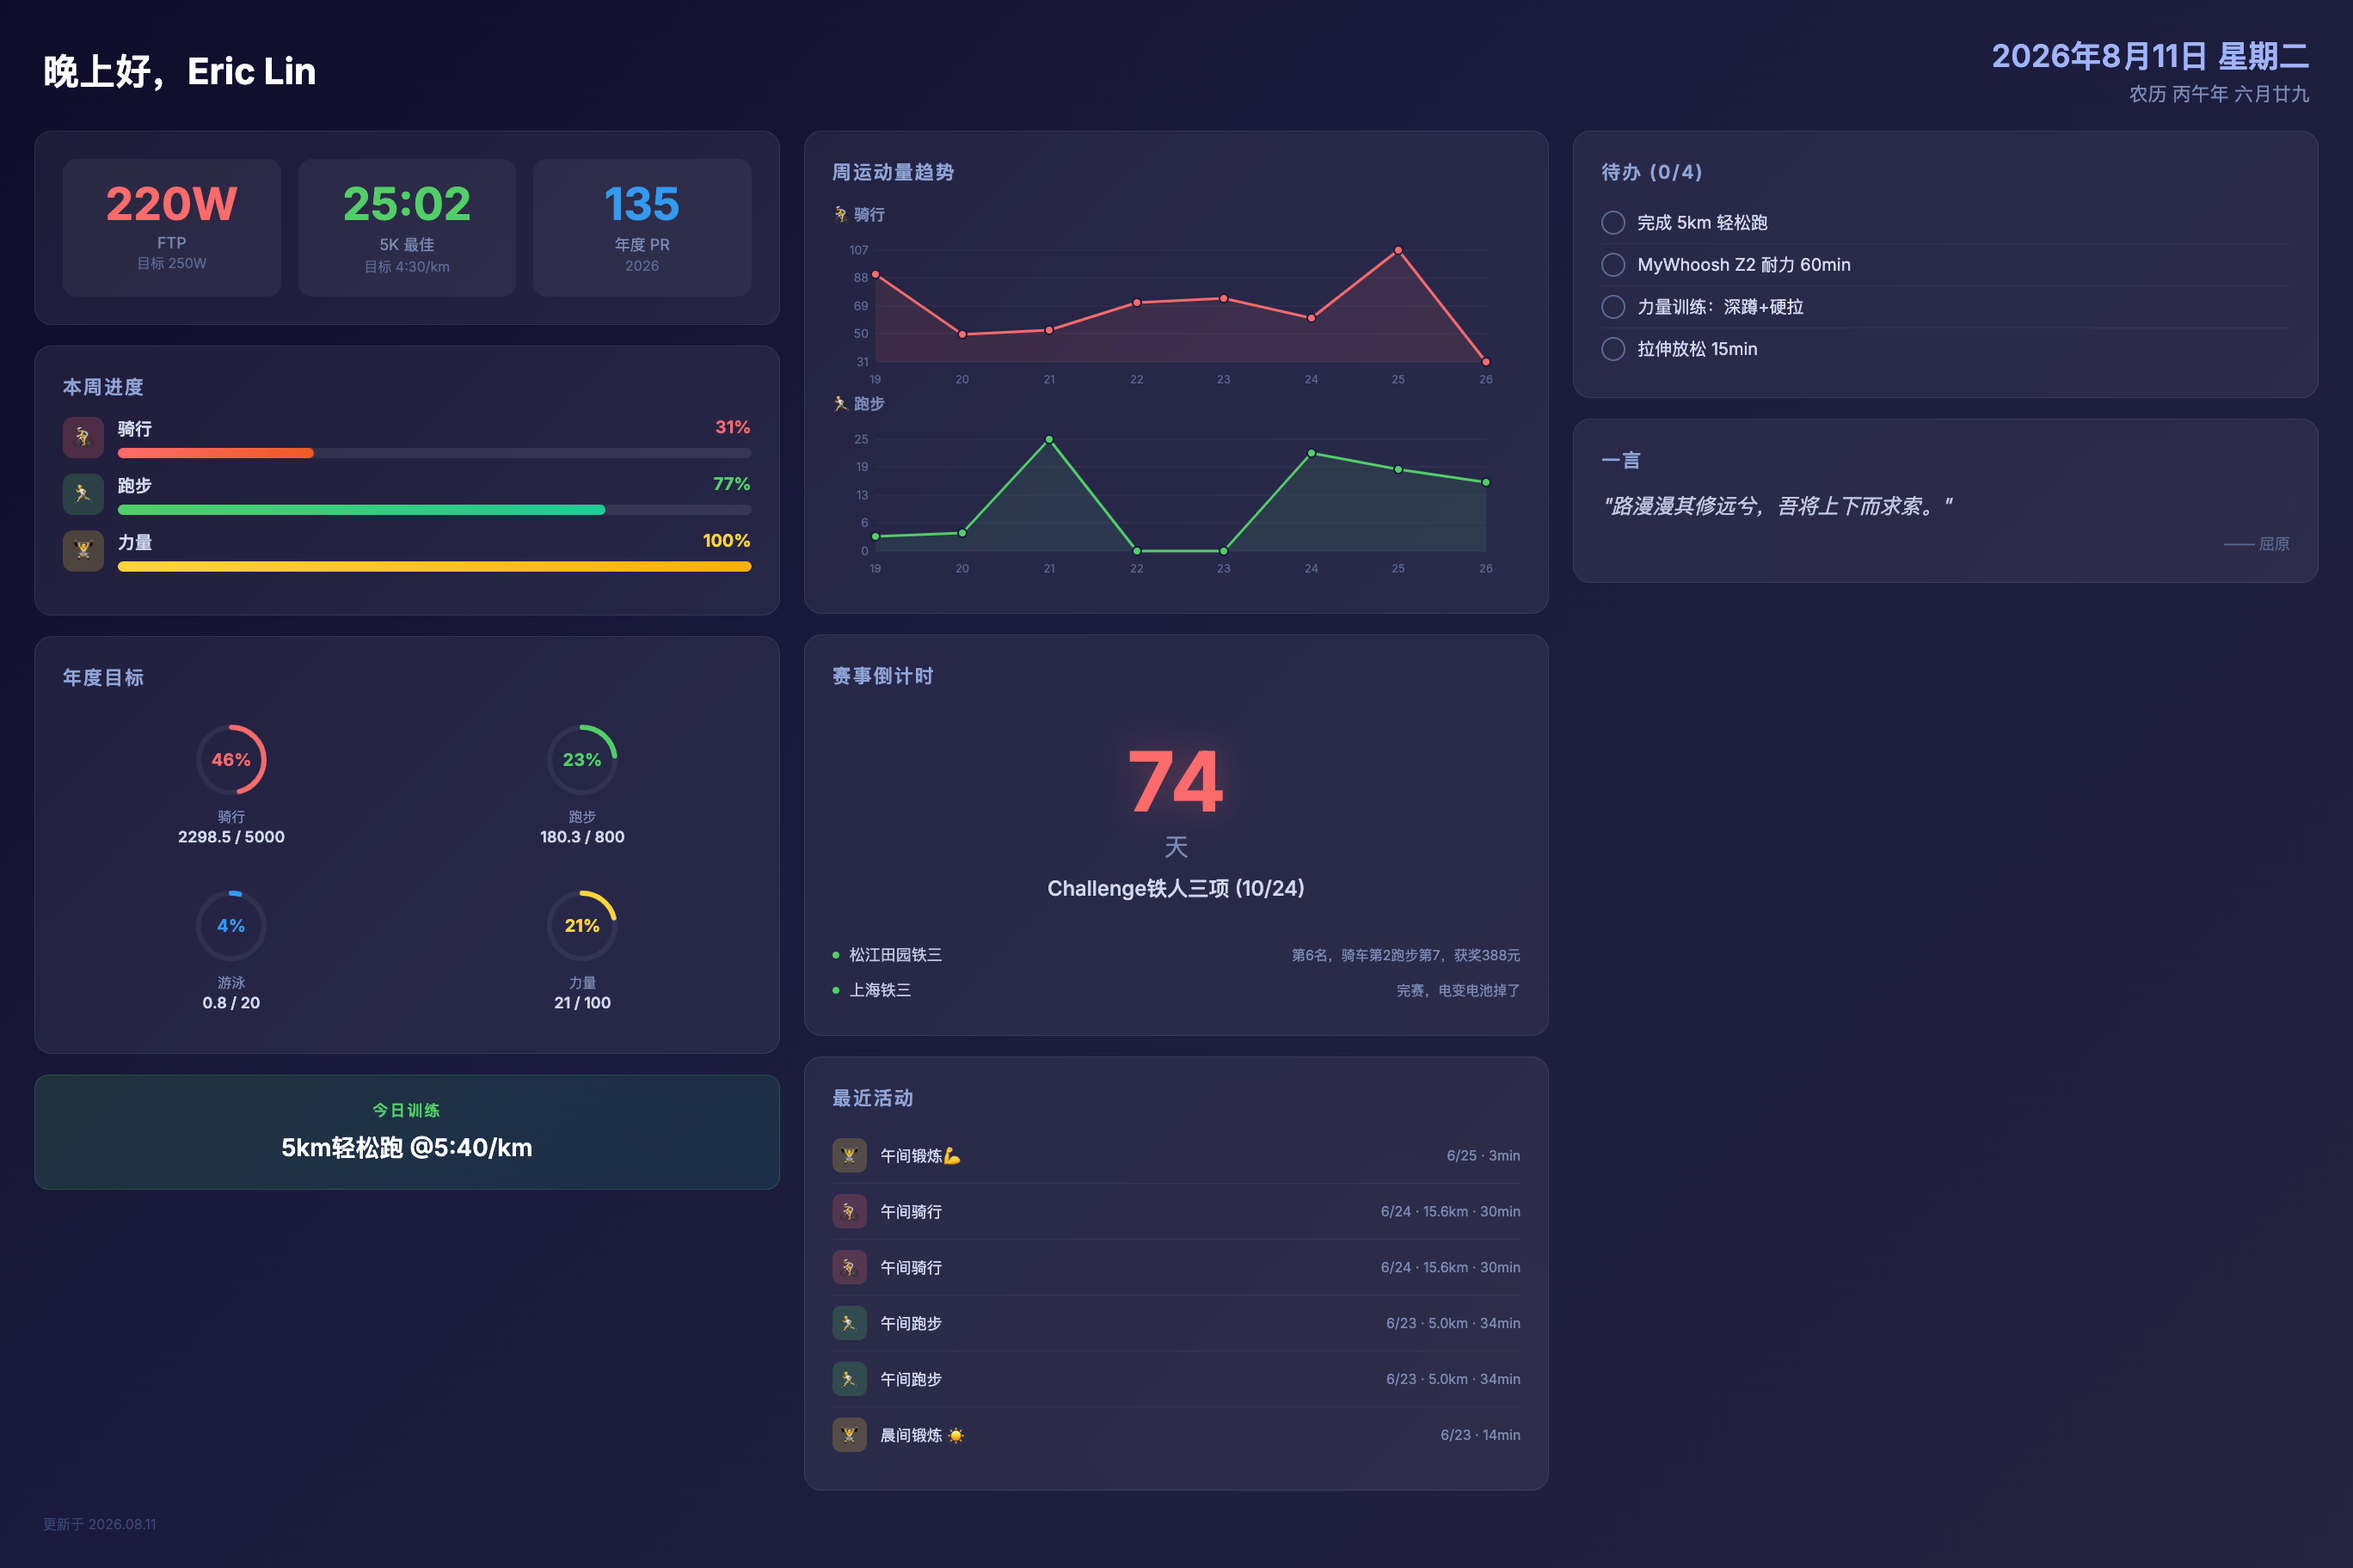
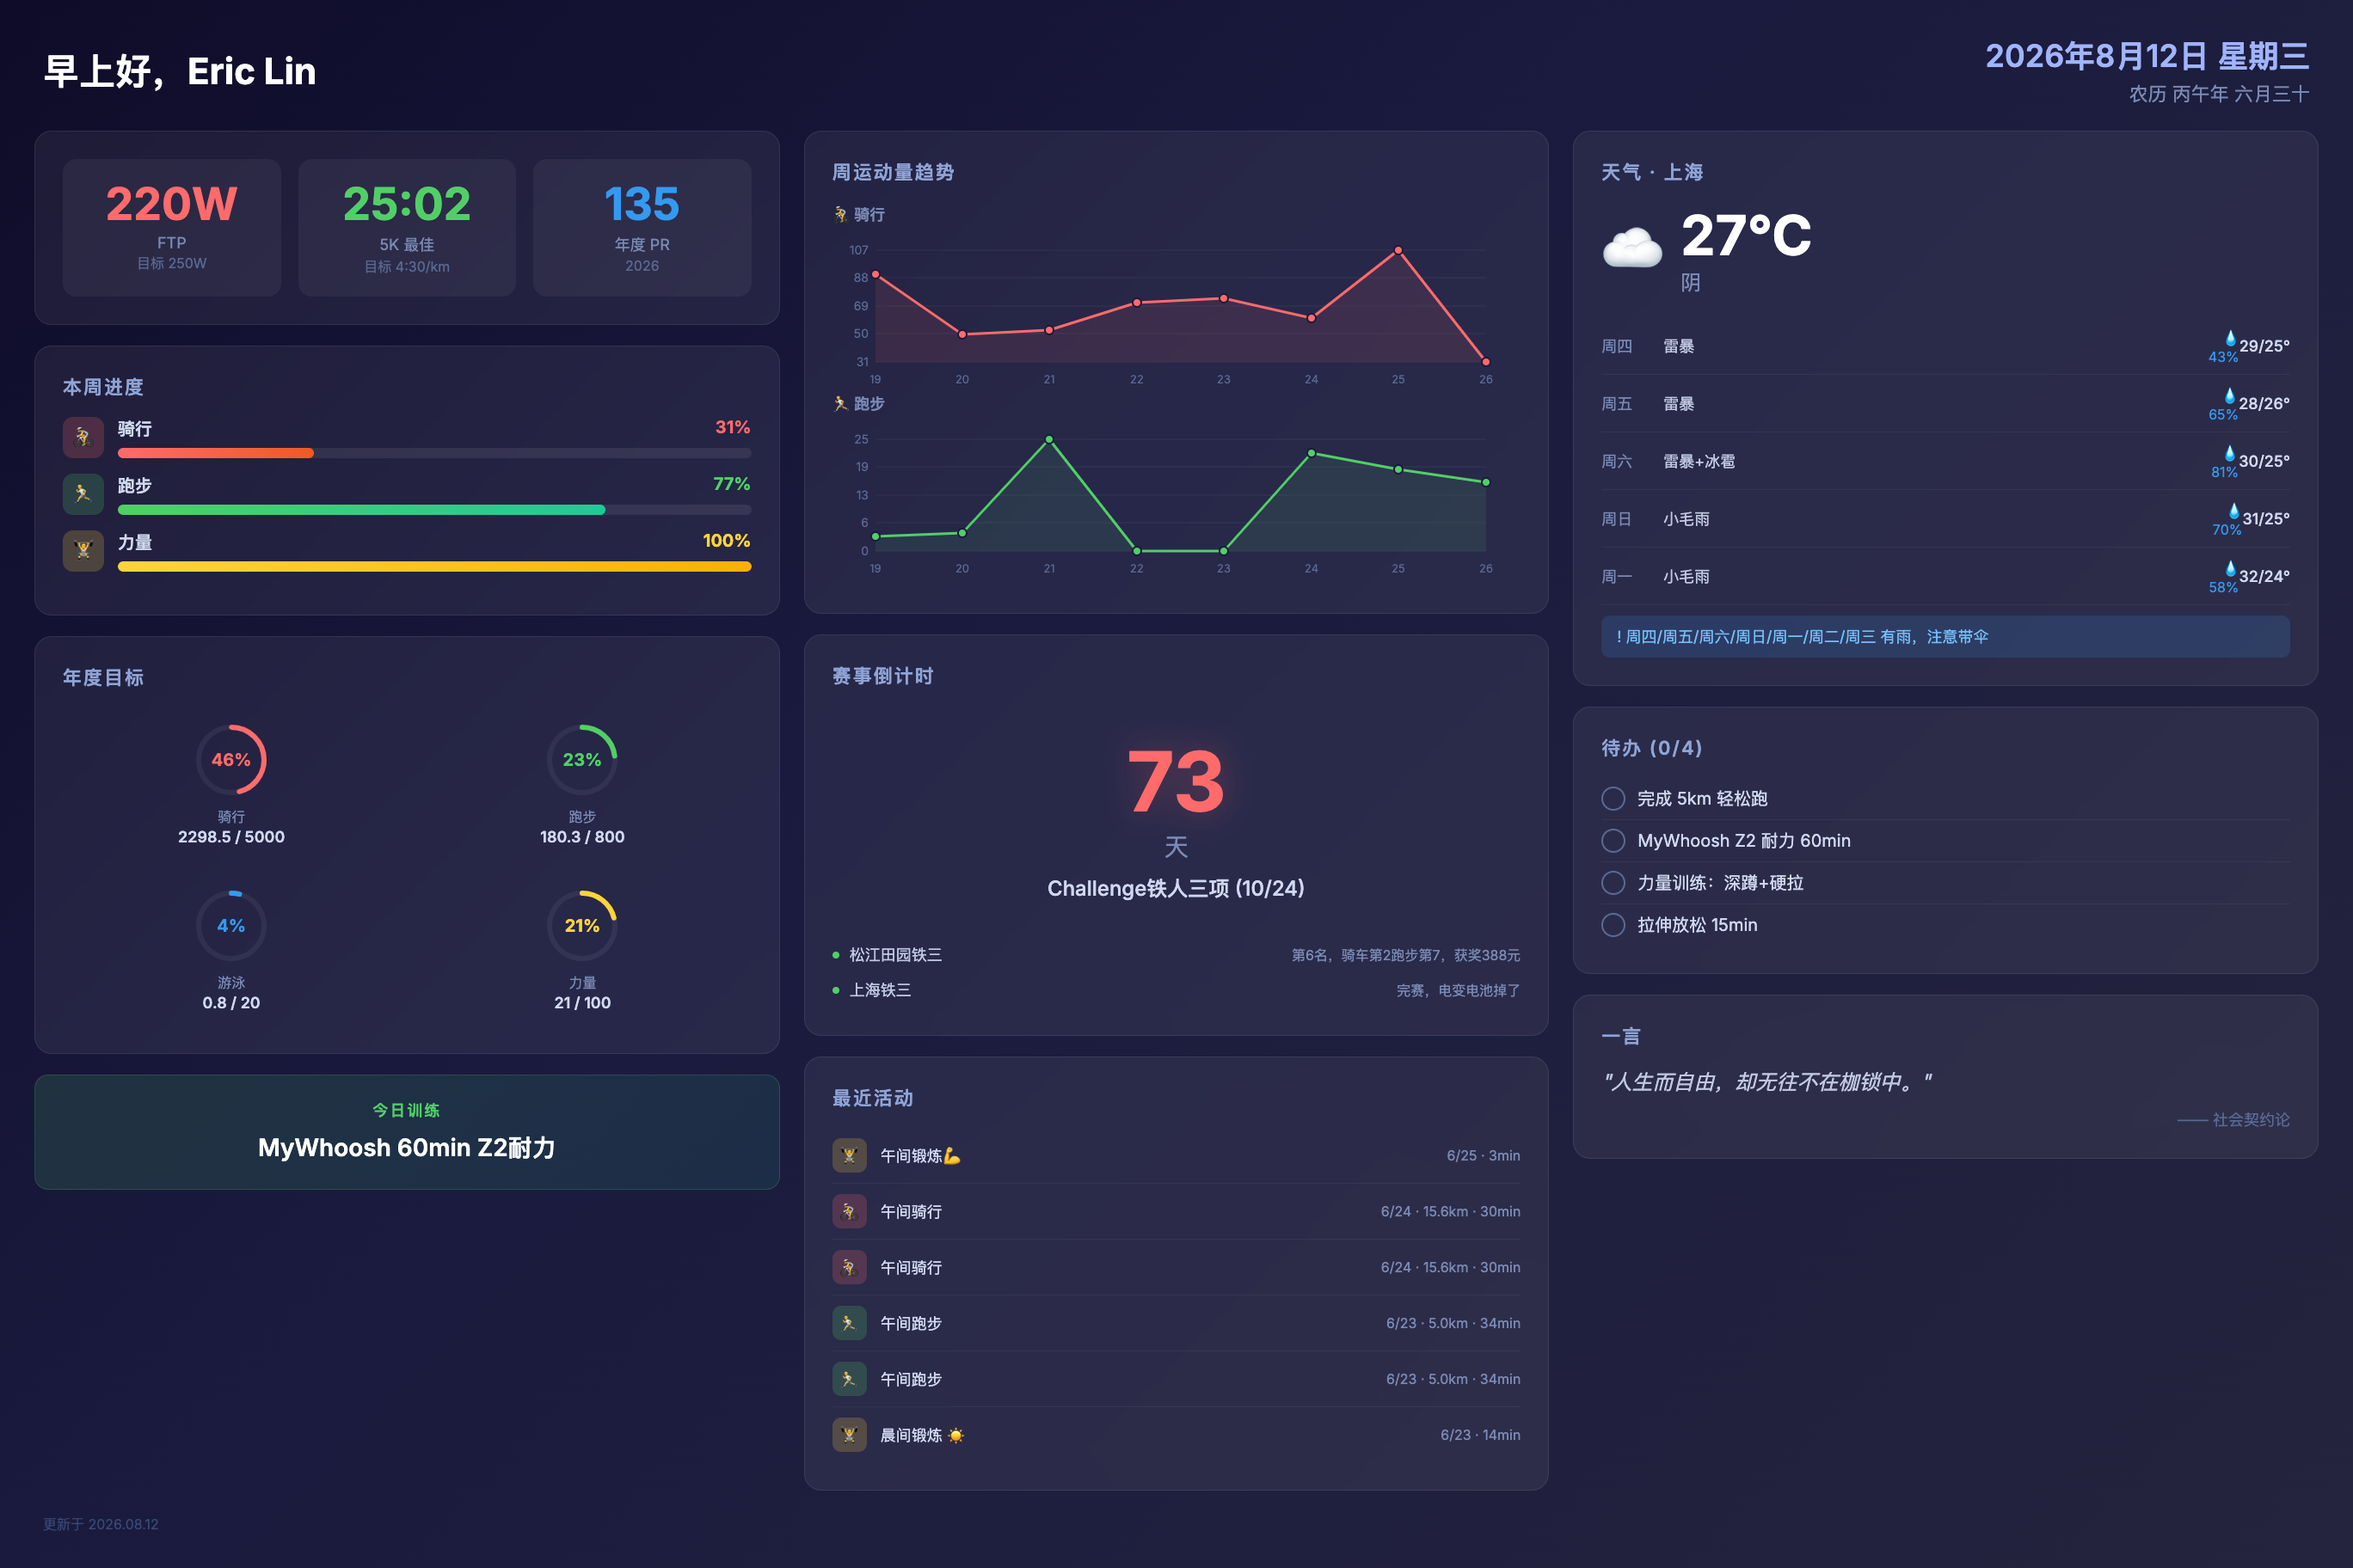
deploy: 2026-08-12-07:00

diff --git a/screensaver.html b/screensaver.html
@@ -490,13 +490,13 @@ html, body {
 <!-- ===== TOP BAR ===== -->
 <div class="top-bar">
   <div>
-    <div class="greeting">晚上好，Eric Lin</div>
+    <div class="greeting">早上好，Eric Lin</div>
     
   </div>
   <div class="date-info">
-    <div class="solar-date">2026年8月11日 星期二</div>
+    <div class="solar-date">2026年8月12日 星期三</div>
     
-    <div class="lunar-date">农历 丙午年 六月廿九</div>
+    <div class="lunar-date">农历 丙午年 六月三十</div>
     
   </div>
 </div>
@@ -638,7 +638,7 @@ html, body {
   
   <div class="ai-today-card">
     <div class="ai-today-label">今日训练</div>
-    <div class="ai-today-text">5km轻松跑 @5:40/km</div>
+    <div class="ai-today-text">MyWhoosh 60min Z2耐力</div>
   </div>
   
 
@@ -732,7 +732,7 @@ html, body {
   <div class="card">
     <div class="card-title">赛事倒计时</div>
     <div class="race-countdown">
-      <div class="countdown-number">74</div>
+      <div class="countdown-number">73</div>
       <div class="countdown-unit">天</div>
       <div class="countdown-name">Challenge铁人三项 (10/24)</div>
     </div>
@@ -805,6 +805,58 @@ html, body {
 
   <!-- Weather -->
   
+  <div class="card">
+    <div class="card-title">天气 · 上海</div>
+    <div class="weather-current">
+      <div class="weather-icon-big">☁</div>
+      <div>
+        <div class="weather-temp-big">27°C</div>
+        <div class="weather-desc">阴</div>
+      </div>
+    </div>
+    
+    
+    <div class="forecast-row">
+      <div class="forecast-day">周四</div>
+      <div class="forecast-desc">雷暴</div>
+      <div class="forecast-precip">💧43%</div>
+      <div class="forecast-range">29/25°</div>
+    </div>
+    
+    <div class="forecast-row">
+      <div class="forecast-day">周五</div>
+      <div class="forecast-desc">雷暴</div>
+      <div class="forecast-precip">💧65%</div>
+      <div class="forecast-range">28/26°</div>
+    </div>
+    
+    <div class="forecast-row">
+      <div class="forecast-day">周六</div>
+      <div class="forecast-desc">雷暴+冰雹</div>
+      <div class="forecast-precip">💧81%</div>
+      <div class="forecast-range">30/25°</div>
+    </div>
+    
+    <div class="forecast-row">
+      <div class="forecast-day">周日</div>
+      <div class="forecast-desc">小毛雨</div>
+      <div class="forecast-precip">💧70%</div>
+      <div class="forecast-range">31/25°</div>
+    </div>
+    
+    <div class="forecast-row">
+      <div class="forecast-day">周一</div>
+      <div class="forecast-desc">小毛雨</div>
+      <div class="forecast-precip">💧58%</div>
+      <div class="forecast-range">32/24°</div>
+    </div>
+    
+    
+    
+    <div class="rain-alert">! 周四/周五/周六/周日/周一/周二/周三 有雨，注意带伞</div>
+    
+  </div>
+  
 
   <!-- Todos -->
   
@@ -850,9 +902,9 @@ html, body {
   
   <div class="card">
     <div class="card-title">一言</div>
-    <div class="quote-text">"路漫漫其修远兮，吾将上下而求索。"</div>
+    <div class="quote-text">"人生而自由，却无往不在枷锁中。"</div>
     
-    <div class="quote-from">—— 屈原</div>
+    <div class="quote-from">—— 社会契约论</div>
     
   </div>
   
@@ -861,7 +913,7 @@ html, body {
 
 <!-- ===== BOTTOM BAR ===== -->
 <div class="bottom-bar">
-  <div class="update-time">更新于 2026.08.11</div>
+  <div class="update-time">更新于 2026.08.12</div>
 </div>
 
 </div>

diff --git a/life.html b/life.html
@@ -89,7 +89,7 @@ html, body {
 <table class="header-table">
   <tr>
     <td class="header-left">生活</td>
-    <td class="header-right">2026.08.11</td>
+    <td class="header-right">2026.08.12</td>
   </tr>
 </table>
 
@@ -133,16 +133,84 @@ html, body {
 
 <!-- ===== 天气 ===== -->
 
+<div class="box">
+  <p class="section-title">☀ 天气 · 上海</p>
+  <table class="weather-table">
+    <tr>
+      <td class="weather-icon">~</td>
+      <td class="weather-temp">27°C</td>
+      <td class="weather-desc">阴</td>
+    </tr>
+  </table>
+  
+  <table class="forecast-table">
+    
+    <tr>
+      <td class="forecast-day">周四</td>
+      <td class="forecast-icon">!</td>
+      <td>雷暴</td>
+      <td class="forecast-range">29/25°C</td>
+    </tr>
+    
+    <tr>
+      <td class="forecast-day">周五</td>
+      <td class="forecast-icon">!</td>
+      <td>雷暴</td>
+      <td class="forecast-range">28/26°C</td>
+    </tr>
+    
+    <tr>
+      <td class="forecast-day">周六</td>
+      <td class="forecast-icon">!</td>
+      <td>雷暴+冰雹</td>
+      <td class="forecast-range">30/25°C</td>
+    </tr>
+    
+    <tr>
+      <td class="forecast-day">周日</td>
+      <td class="forecast-icon">.</td>
+      <td>小毛雨</td>
+      <td class="forecast-range">31/25°C</td>
+    </tr>
+    
+    <tr>
+      <td class="forecast-day">周一</td>
+      <td class="forecast-icon">.</td>
+      <td>小毛雨</td>
+      <td class="forecast-range">32/24°C</td>
+    </tr>
+    
+    <tr>
+      <td class="forecast-day">周二</td>
+      <td class="forecast-icon">~</td>
+      <td>多云</td>
+      <td class="forecast-range">31/24°C</td>
+    </tr>
+    
+    <tr>
+      <td class="forecast-day">周三</td>
+      <td class="forecast-icon">!</td>
+      <td>雷暴+冰雹</td>
+      <td class="forecast-range">31/26°C</td>
+    </tr>
+    
+  </table>
+  
+  
+  <div class="rain-alert">! 周四/周五/周六/周日/周一/周二/周三 有雨，注意带伞</div>
+  
+</div>
+
 
 <!-- ===== 今日 ===== -->
 <div class="box">
   <p class="section-title">📅 今日</p>
   <table class="data-table">
     <tr>
-      <td>2026年8月11日 星期一</td>
+      <td>2026年8月12日 星期二</td>
     </tr>
     <tr>
-      <td>农历丙午年 六月廿九</td>
+      <td>农历丙午年 六月三十</td>
     </tr>
   </table>
 </div>
@@ -193,9 +261,9 @@ html, body {
 
 <div class="box">
   <p class="section-title">💬 一言</p>
-  <p class="quote-text">路漫漫其修远兮，吾将上下而求索。</p>
+  <p class="quote-text">人生而自由，却无往不在枷锁中。</p>
   
-  <p class="quote-from">—— 屈原</p>
+  <p class="quote-from">—— 社会契约论</p>
   
 </div>
 

diff --git a/index.html b/index.html
@@ -74,7 +74,7 @@ html, body {
 <table class="header-table">
   <tr>
     <td class="header-left">Eric Lin · 运动</td>
-    <td class="header-right">2026.08.11</td>
+    <td class="header-right">2026.08.12</td>
   </tr>
 </table>
 
@@ -225,17 +225,10 @@ html, body {
 <div class="ai-plan">
   <div class="ai-plan-title">AI 训练建议</div>
   
-  <div class="ai-today">今日: 阈值训练 3×8min @260W</div>
+  <div class="ai-today">今日: 轻松跑 5km</div>
   
   
   <table class="ai-weekly">
-    
-    <tr>
-      <td class="day">周二</td>
-      
-      <td>阈值训练 3×8min @260W</td>
-      
-    </tr>
     
     <tr>
       <td class="day">周三</td>
@@ -279,6 +272,13 @@ html, body {
       
     </tr>
     
+    <tr>
+      <td class="day">周二</td>
+      
+      <td>阈值训练 3×8min @260W</td>
+      
+    </tr>
+    
   </table>
   
   
@@ -293,7 +293,7 @@ html, body {
   <p class="section-title">即将到来</p>
   
   <div class="countdown-box">
-    <div class="countdown-days">74</div>
+    <div class="countdown-days">73</div>
     <div class="countdown-label">距 Challenge铁人三项 (10/24)</div>
   </div>
   

diff --git a/work.html b/work.html
@@ -89,7 +89,7 @@ html, body {
 <table class="header-table">
   <tr>
     <td class="header-left">工作</td>
-    <td class="header-right">2026.08.11</td>
+    <td class="header-right">2026.08.12</td>
   </tr>
 </table>
 
